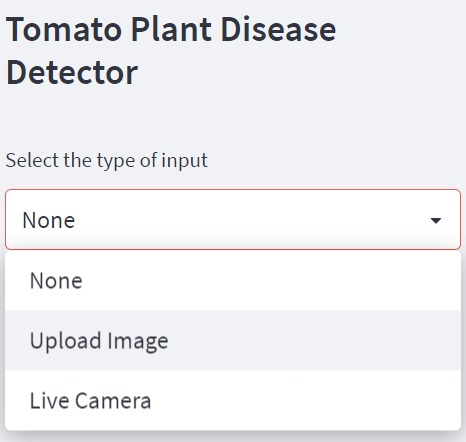
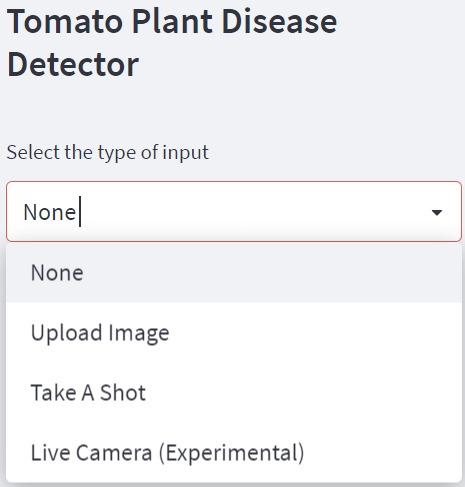
Basic Updates

diff --git a/app.py b/app.py
@@ -59,6 +59,6 @@ if selectbox == 'Live Camera (Experimental)':
                 FRAME_WINDOW1.success(str_out)
             else:
                 FRAME_WINDOW.error("Streamlit as of now is NOT well Optimized for Live Camera support, I will update the application as soon as support rolls out")
-                FRAME_WINDOW1.error("Camera Not Found")
+                FRAME_WINDOW1.error("Camera Not Found ; Check Out [here](https://github.com/BhavyBansal24/Tomato-Plant-Disease-Detector#how-to-use-tomato-plant-disease-detector-web-app) for more info")
     else:
         st.sidebar.markdown("Please check the checkbox to start the camera")

diff --git a/README.md b/README.md
@@ -1,17 +1,52 @@
 # Tomato-Plant-Disease-Detector
-![](https://github.com/BhavyBansal24/Tomato-Plant-Disease-Detector/blob/master/extras/dataset.jpeg?raw=true)
-#### Project is live at : [Tomato-Plant-Disease-Detector]()
+![](https://github.com/BhavyBansal24/Tomato-Plant-Disease-Detector/blob/master/extras/dataset.jpg?raw=true)
+### Project is live at : [Tomato-Plant-Disease-Detector](https://bhavybansal24-tomato-plant-disease-detector-app-jo66w9.streamlitapp.com/)
+
+## Quick Offline Setup :
+* Clone this repo
+* Open cmd in Clone folder
+* Create a conda environment on your device using commands below on cmd,
+  ```
+  conda create -n test_env python=3.9
+  conda activate test_env
+  ```
+* Install require libraries
+  ```
+  pip install requirements.txt
+  ```
+* Run the application
+  ```
+  streamlit run app.py
+  ```
 
 ## How to use Tomato-Plant-Disease-Detector web-app:
-* Click [here]()
-* Select type of Input ['Upload Image', 'Live Camera']
+* Click [here](https://bhavybansal24-tomato-plant-disease-detector-app-jo66w9.streamlitapp.com/)
+* Select type of Input ['Upload Image', 'Take A Shot', 'Live Camera (Experimental)']
 ![](https://github.com/BhavyBansal24/Tomato-Plant-Disease-Detector/blob/master/extras/selectType.jpeg?raw=true)
 ## Upload Image
 * Click on Browse files & Upload a Image file, Model will classify your uploaded Image from the known tomato disease classes.
 ![](https://github.com/BhavyBansal24/Tomato-Plant-Disease-Detector/blob/master/extras/UploadIMG.jpeg?raw=true)
 * After uploading completes, you can see the prediction on right side as shown below
 ![](https://github.com/BhavyBansal24/Tomato-Plant-Disease-Detector/blob/master/extras/predictionIMG.jpeg?raw=true)
-* Similarly, you can use Live Camera and get predictions
+********************************************************
+## Take A Shot
+* Take a shot of the tomato plant leaf by clicking **Take Photo** on right side of the application.
+********************************************************
+## Live Camera (Experimental)
+* As of now Streamlit is not supporting to use camera directly from API.
+* Here is an way to access the Live Camera feature on your offline device :
+  - Clone this repo
+  - Open cmd in Clone folder
+  - Create a conda environment on your device using commands below on cmd,
+  ```
+  conda create -n test_env python=3.9
+  conda activate test_env
+  pip install requirements.txt
+  streamlit run app.py
+  ```
+  - Note : you may be asked for Email to start streamlit (proceed anyways)
+  - It will redirect you to your default browser and open application offline
+  - here you may use the Live Camera (Experimental) feature without any error.
 ********************************************************
 ## Model Details :
 * Sequential model
